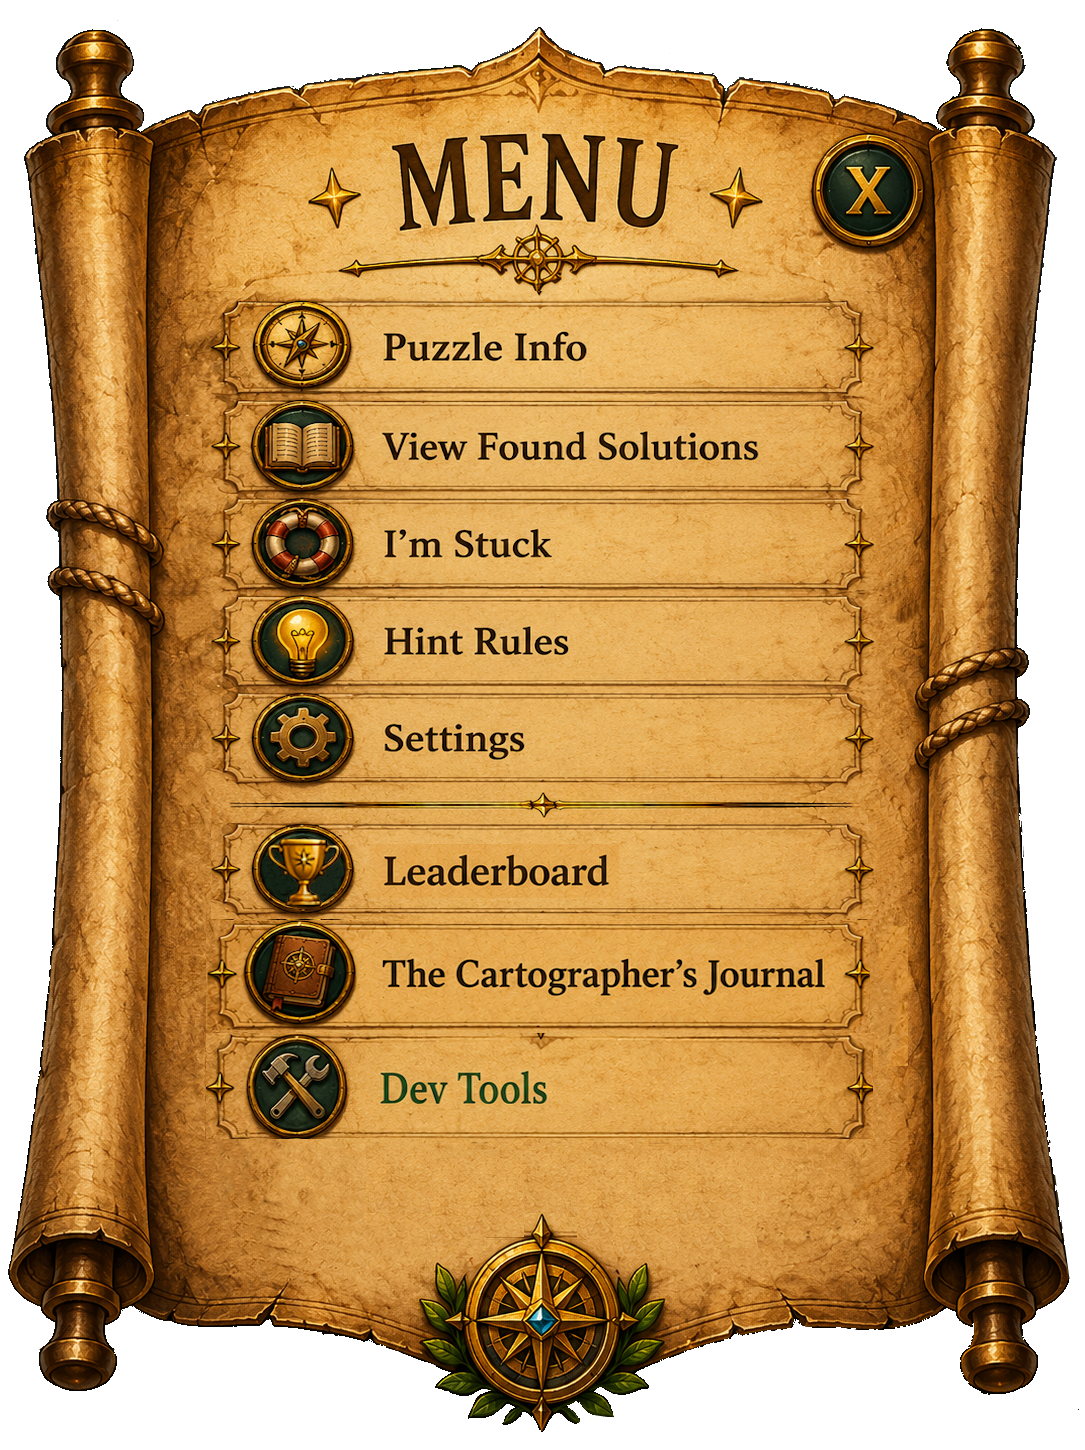
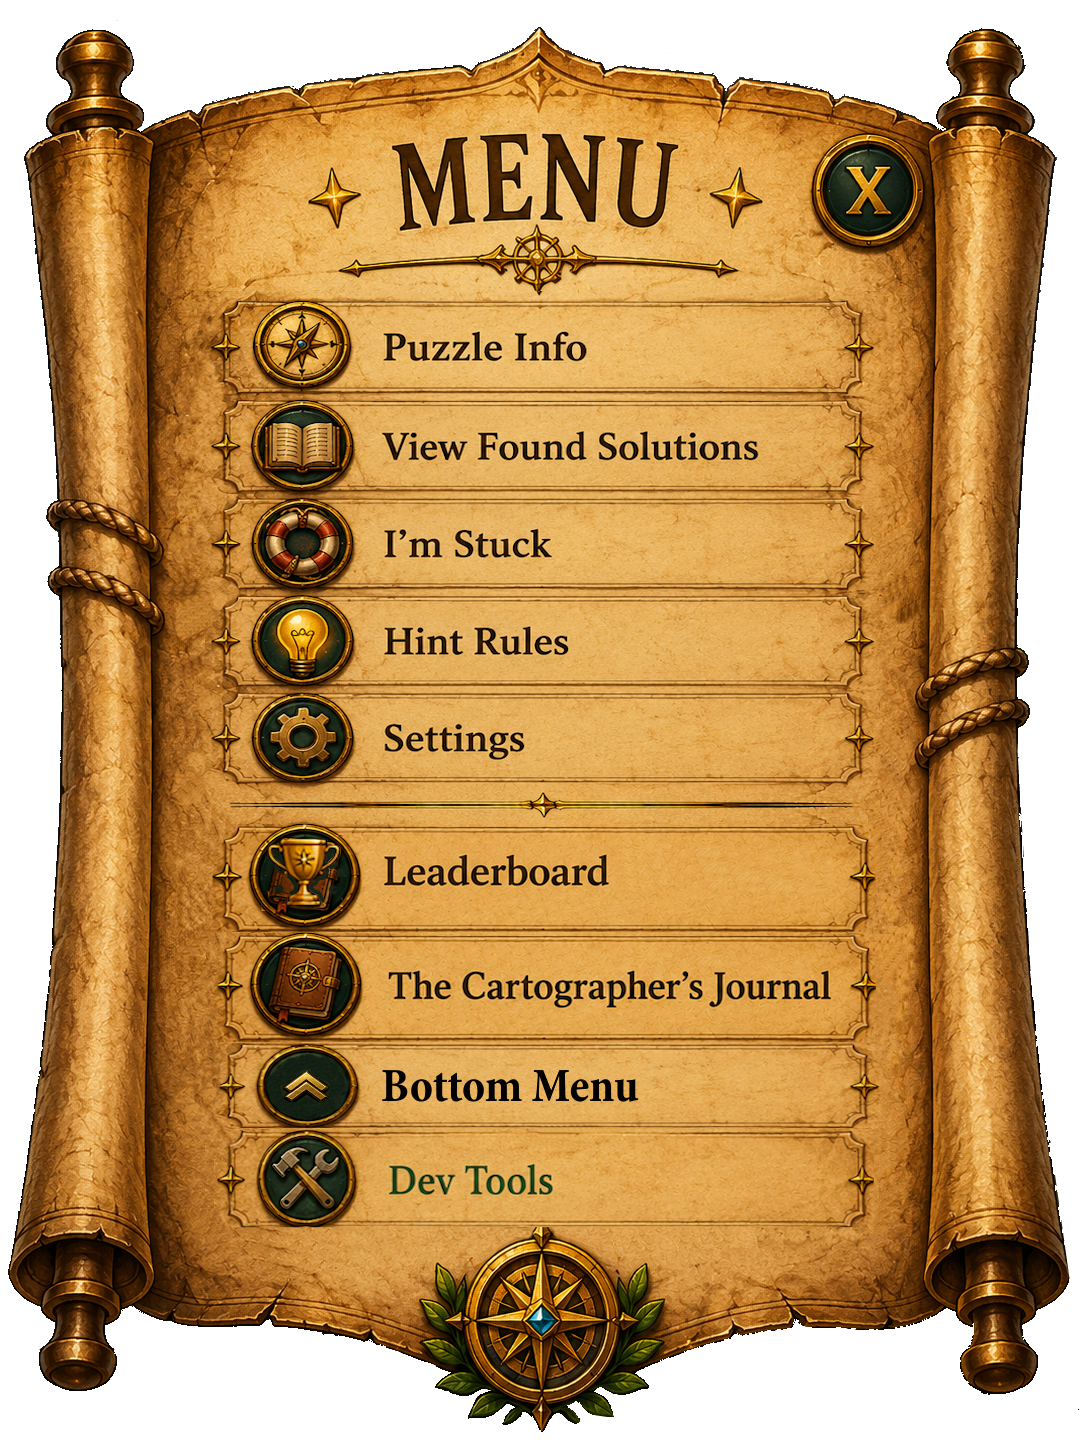
Release v0.99.189: Main Navigation in hamburger menu for iPhone.
Adds a hamburger link to open the bottom nav drawer, menu tuner support, updated menu art, and version bump metadata.

Changed region(s): [[0.1825, 0.5586, 0.8516, 0.869], [0.1825, 0.2172, 0.2129, 0.2793]]

diff --git a/web/css/tilezilla-shell.css b/web/css/tilezilla-shell.css
@@ -372,6 +372,10 @@
   --tz-menu-journal-y: 75%;
   --tz-menu-journal-w: 74%;
   --tz-menu-journal-h: 6.8%;
+  --tz-menu-bottom-menu-x: 50%;
+  --tz-menu-bottom-menu-y: 82%;
+  --tz-menu-bottom-menu-w: 74%;
+  --tz-menu-bottom-menu-h: 6.8%;
   /* Dev menu row centers (Menu-devtools.png — 8 items) */
   --tz-menu-dev-puzzle-x: 50%;
   --tz-menu-dev-puzzle-y: 19%;
@@ -397,8 +401,12 @@
   --tz-menu-dev-journal-y: 63%;
   --tz-menu-dev-journal-w: 74%;
   --tz-menu-dev-journal-h: 6.8%;
+  --tz-menu-dev-bottom-menu-x: 50%;
+  --tz-menu-dev-bottom-menu-y: 71%;
+  --tz-menu-dev-bottom-menu-w: 74%;
+  --tz-menu-dev-bottom-menu-h: 6.8%;
   --tz-menu-dev-development-x: 50%;
-  --tz-menu-dev-development-y: 75%;
+  --tz-menu-dev-development-y: 79%;
   --tz-menu-dev-development-w: 74%;
   --tz-menu-dev-development-h: 6.8%;
   --tz-menu-offset-y: -50px;
@@ -7975,6 +7983,13 @@ body.tz-is-dev-user .tz-menu-plaque__bg--devtools {
   height: var(--tz-menu-journal-h);
 }
 
+.tz-menu-plaque__hit--bottom-menu {
+  left: var(--tz-menu-bottom-menu-x);
+  top: var(--tz-menu-bottom-menu-y);
+  width: var(--tz-menu-bottom-menu-w);
+  height: var(--tz-menu-bottom-menu-h);
+}
+
 .tz-menu-plaque__hit--development {
   left: var(--tz-menu-dev-development-x);
   top: var(--tz-menu-dev-development-y);
@@ -8036,6 +8051,13 @@ body.tz-is-dev-user .tz-menu-plaque__hit--cartographers-journal {
   top: var(--tz-menu-dev-journal-y);
   width: var(--tz-menu-dev-journal-w);
   height: var(--tz-menu-dev-journal-h);
+}
+
+body.tz-is-dev-user .tz-menu-plaque__hit--bottom-menu {
+  left: var(--tz-menu-dev-bottom-menu-x);
+  top: var(--tz-menu-dev-bottom-menu-y);
+  width: var(--tz-menu-dev-bottom-menu-w);
+  height: var(--tz-menu-dev-bottom-menu-h);
 }
 
 /* ── Development submenu (scroll popup) ── */

diff --git a/web/js/menu-layout.js b/web/js/menu-layout.js
@@ -13,6 +13,7 @@ export const MENU_ITEM_DEFS = {
   settings: { label: 'Settings', kind: 'row', modes: ['standard', 'dev'] },
   leaderboard: { label: 'Leaderboard', kind: 'row', modes: ['standard', 'dev'] },
   journal: { label: "The Cartographer's Journal", kind: 'row', modes: ['standard', 'dev'] },
+  bottomMenu: { label: 'Main Navigation', kind: 'row', modes: ['standard', 'dev'] },
   development: { label: 'Development', kind: 'row', modes: ['dev'] },
 };
 
@@ -24,13 +25,14 @@ const ROW_CSS_SUFFIX = {
   settings: 'settings',
   leaderboard: 'leaderboard',
   journal: 'journal',
+  bottomMenu: 'bottom-menu',
   development: 'development',
 };
 
 const DEFAULT_ROW = { x: 50, y: 50 };
 
 /** First five links appear on both Menu.png and Menu-devtools.png. */
-const SHARED_MENU_ITEMS = new Set(['puzzle', 'found', 'stuck', 'hint', 'settings', 'leaderboard', 'journal']);
+const SHARED_MENU_ITEMS = new Set(['puzzle', 'found', 'stuck', 'hint', 'settings', 'leaderboard', 'journal', 'bottomMenu']);
 
 export const DEFAULT_MENU_LAYOUT = {
   plaque: { offsetY: -50, displayW: 340, wScale: 1.3 },
@@ -44,6 +46,7 @@ export const DEFAULT_MENU_LAYOUT = {
     settings: { x: 50, y: 63 },
     leaderboard: { x: 50, y: 69 },
     journal: { x: 50, y: 75 },
+    bottomMenu: { x: 50, y: 82 },
   },
   dev: {
     puzzle: { x: 50, y: 19 },
@@ -53,7 +56,8 @@ export const DEFAULT_MENU_LAYOUT = {
     settings: { x: 50, y: 51 },
     leaderboard: { x: 50, y: 57 },
     journal: { x: 50, y: 63 },
-    development: { x: 50, y: 75 },
+    bottomMenu: { x: 50, y: 71 },
+    development: { x: 50, y: 79 },
   },
 };
 

diff --git a/web/menu-tuner.html b/web/menu-tuner.html
@@ -202,8 +202,8 @@
       <h2>Controls</h2>
       <label for="modeSelect">Menu image</label>
       <select id="modeSelect">
-        <option value="standard">Menu.png (5 items)</option>
-        <option value="dev">Menu-devtools.png (8 items)</option>
+        <option value="standard">Menu.png (standard)</option>
+        <option value="dev">Menu-devtools.png (dev)</option>
       </select>
       <div class="field-grid" id="fieldGrid"></div>
       <p class="readout" id="readout">—</p>
@@ -240,6 +240,7 @@
             <button type="button" class="tz-menu-plaque__hit tz-menu-plaque__hit--settings" data-item="settings"><span class="hit-label">Settings</span></button>
             <button type="button" class="tz-menu-plaque__hit tz-menu-plaque__hit--leaderboard" data-item="leaderboard"><span class="hit-label">Leaderboard</span></button>
             <button type="button" class="tz-menu-plaque__hit tz-menu-plaque__hit--cartographers-journal" data-item="journal"><span class="hit-label">Cartographer's Journal</span></button>
+            <button type="button" class="tz-menu-plaque__hit tz-menu-plaque__hit--bottom-menu" data-item="bottomMenu"><span class="hit-label">Main Navigation</span></button>
             <button type="button" class="tz-menu-plaque__hit tz-menu-plaque__hit--development" data-item="development"><span class="hit-label">Development</span></button>
           </div>
         </div>

diff --git a/web/tilezilla-v2.html b/web/tilezilla-v2.html
@@ -454,6 +454,7 @@
         <button type="button" class="tz-menu-plaque__hit tz-menu-plaque__hit--settings" id="menuOpenSettingsBtn" aria-label="Settings"></button>
         <button type="button" class="tz-menu-plaque__hit tz-menu-plaque__hit--leaderboard" id="menuLeaderboardBtn" aria-label="Leaderboard"></button>
         <button type="button" class="tz-menu-plaque__hit tz-menu-plaque__hit--cartographers-journal" id="menuCartographersJournalBtn" aria-label="The Cartographer's Journal"></button>
+        <button type="button" class="tz-menu-plaque__hit tz-menu-plaque__hit--bottom-menu" id="menuBottomMenuBtn" aria-label="Main navigation menu"></button>
         <a class="tz-menu-plaque__hit tz-menu-plaque__hit--guest-login" id="menuGuestLoginBtn" href="/login-screen.html" hidden aria-label="Login"></a>
         <a class="tz-menu-plaque__hit tz-menu-plaque__hit--guest-create" id="menuGuestCreateBtn" href="/create-passport.html" hidden aria-label="Create Account"></a>
         <button type="button" class="tz-menu-plaque__hit tz-menu-plaque__hit--development" id="menuDevelopmentBtn" data-dev-only hidden aria-label="Development"></button>

diff --git a/web/cartographers-journal-tuner.html b/web/cartographers-journal-tuner.html
@@ -228,7 +228,7 @@
                     src="/img/CartographersJournal.png"
                     alt="The Cartographer's Journal"
                   />
-                  <p class="tz-cartographers-journal__version" id="mockJournalVersion">v0.99.188</p>
+                  <p class="tz-cartographers-journal__version" id="mockJournalVersion">v0.99.189</p>
                 </div>
               </div>
               <div class="tz-cartographers-journal-scroller" id="mockJournalScroller" aria-hidden="false">

diff --git a/web/js/tilezilla-menu.js b/web/js/tilezilla-menu.js
@@ -241,6 +241,11 @@ export function initMenuUi({ getApp: getAppFn, openStuckFlow: openStuck }) {
     });
   });
 
+  $('menuBottomMenuBtn')?.addEventListener('click', () => {
+    closeMenu();
+    window.__openBottomMenuV2?.();
+  });
+
   $('menuPanelBackBtn')?.addEventListener('click', backFromPanel);
   $('menuPanelCloseBtn')?.addEventListener('click', closeAll);
   menuPanelRoot.querySelector('.tz-sheet-backdrop')?.addEventListener('click', closeAll);

diff --git a/web/js/tilezilla-bootstrap.js b/web/js/tilezilla-bootstrap.js
@@ -1804,6 +1804,7 @@ function openBottomMenuV2() {
 
 function wireBottomMenuV2() {
   if (!MAIN_V2_SHELL) return;
+  window.__openBottomMenuV2 = openBottomMenuV2;
   $('bottomMenuOpenBtn')?.addEventListener('click', openBottomMenuV2);
   $('bottomMenuCloseBtn')?.addEventListener('click', closeBottomMenuV2);
 }

diff --git a/Docs/release-v0.99.189.md b/Docs/release-v0.99.189.md
@@ -1,0 +1,57 @@
+# Release v0.99.189 — branch switch for testers
+
+**Previous stable:** `v0.99.188` → branch `release/v0.99.188`  
+**New development / deploy:** `v0.99.189` → branch `release/v0.99.189`
+
+## What changed in 0.99.189 (vs 0.99.188)
+
+- **Hamburger menu — Main Navigation** — opens the bottom nav drawer (iPhone-friendly alternative to the lower graphic)
+- **Menu tuner** — new **Main Navigation** hit area on `Menu.png` / `Menu-devtools.png`
+- **Menu art** — updated `Menu.png` and `Menu-devtools.png` with the new row
+- **iPhone / mobile fixes** (from 0.99.188 line) — passport boot, check-solve, discovery popup, duplicate solve popup
+- **Challenge progress popup** — larger gate screen and buttons on desktop
+
+## Git branches
+
+| Branch | Version | Use |
+|--------|---------|-----|
+| `release/v0.99.188` | 0.99.188 | Frozen — previous deploy line |
+| `release/v0.99.189` | 0.99.189 | **Active** development and deploy |
+| `main` | — | Merge `release/v0.99.189` when ready |
+
+### Deploy 0.99.189
+
+```bash
+git fetch origin
+git checkout release/v0.99.189
+git pull origin release/v0.99.189
+docker compose -f docker-compose.production.yml --env-file .env.production up -d --build
+```
+
+## Version metadata
+
+| Location | Purpose |
+|----------|---------|
+| `data/system_info.json` | Dev fallback + menu / Cartographer's Journal badge |
+| `docker/mysql/init/09-system-info.sql` | Fresh MySQL volume seed |
+| `scripts/sql/bump-version-0.99.189.sql` | **Upgrade existing** production DB |
+
+## Database upgrade (existing server)
+
+After pulling `release/v0.99.189` and rebuilding containers:
+
+```bash
+docker compose -f docker-compose.production.yml --env-file .env.production exec -T mysql \
+  sh -c 'mysql -u"$MYSQL_USER" -p"$MYSQL_PASSWORD" "$MYSQL_DATABASE"' \
+  < scripts/sql/bump-version-0.99.189.sql
+```
+
+## Verify
+
+1. Cartographer's Journal shows **v0.99.189**
+2. `GET /api/system-info` shows `0.99.189`
+3. `SELECT version FROM tilegame.system_info WHERE id = 1;` → `0.99.189`
+
+## Rollback
+
+Point prod back to `release/v0.99.188` and redeploy. Gameplay data is compatible.

diff --git a/Docs/release-v0.99.188.md b/Docs/release-v0.99.188.md
@@ -1,7 +1,7 @@
 # Release v0.99.188 — branch switch for testers
 
 **Previous stable:** `v0.99.187` → branch `release/v0.99.187`  
-**New development / deploy:** `v0.99.188` → branch `release/v0.99.188`
+**New development / deploy:** `v0.99.189` → branch `release/v0.99.189` (see `Docs/release-v0.99.189.md`)
 
 ## What changed in 0.99.188 (vs 0.99.187)
 
@@ -19,8 +19,9 @@
 | Branch | Version | Use |
 |--------|---------|-----|
 | `release/v0.99.187` | 0.99.187 | Frozen — previous deploy line |
-| `release/v0.99.188` | 0.99.188 | **Active** development and deploy |
-| `main` | — | Merge `release/v0.99.188` when ready |
+| `release/v0.99.188` | 0.99.188 | Frozen — superseded by 0.99.189 |
+| `release/v0.99.189` | 0.99.189 | Active development and next deploy |
+| `main` | — | Merge `release/v0.99.189` when ready to make 0.99.189 the default line |
 
 ### Deploy 0.99.188
 
